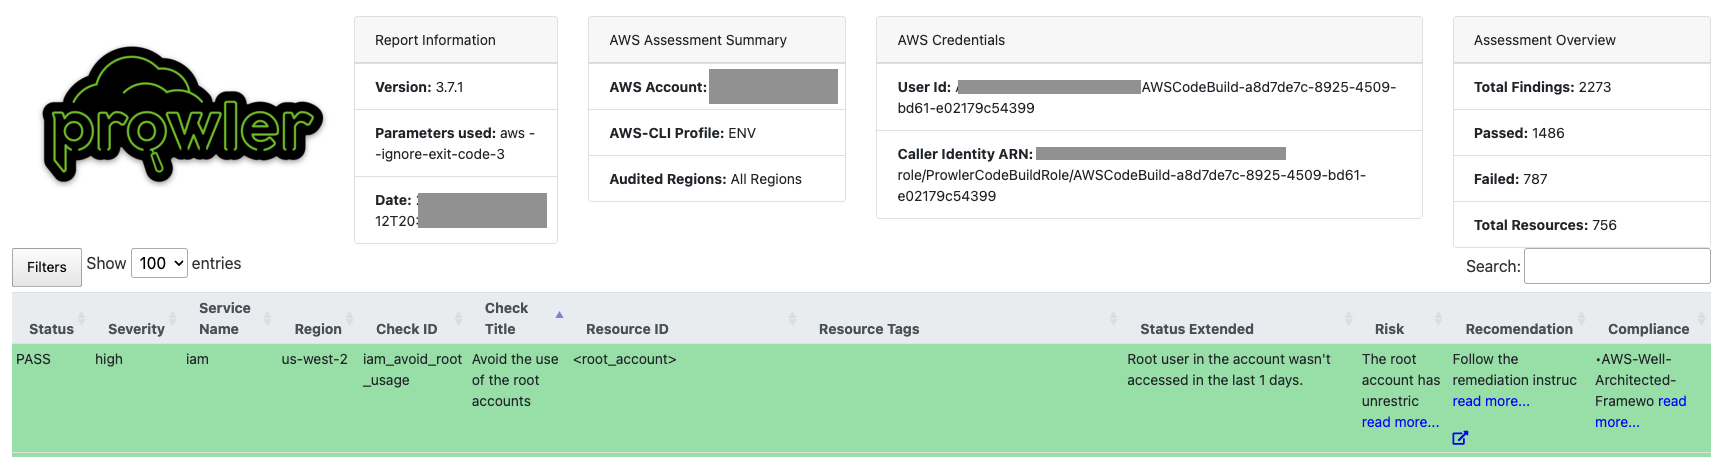
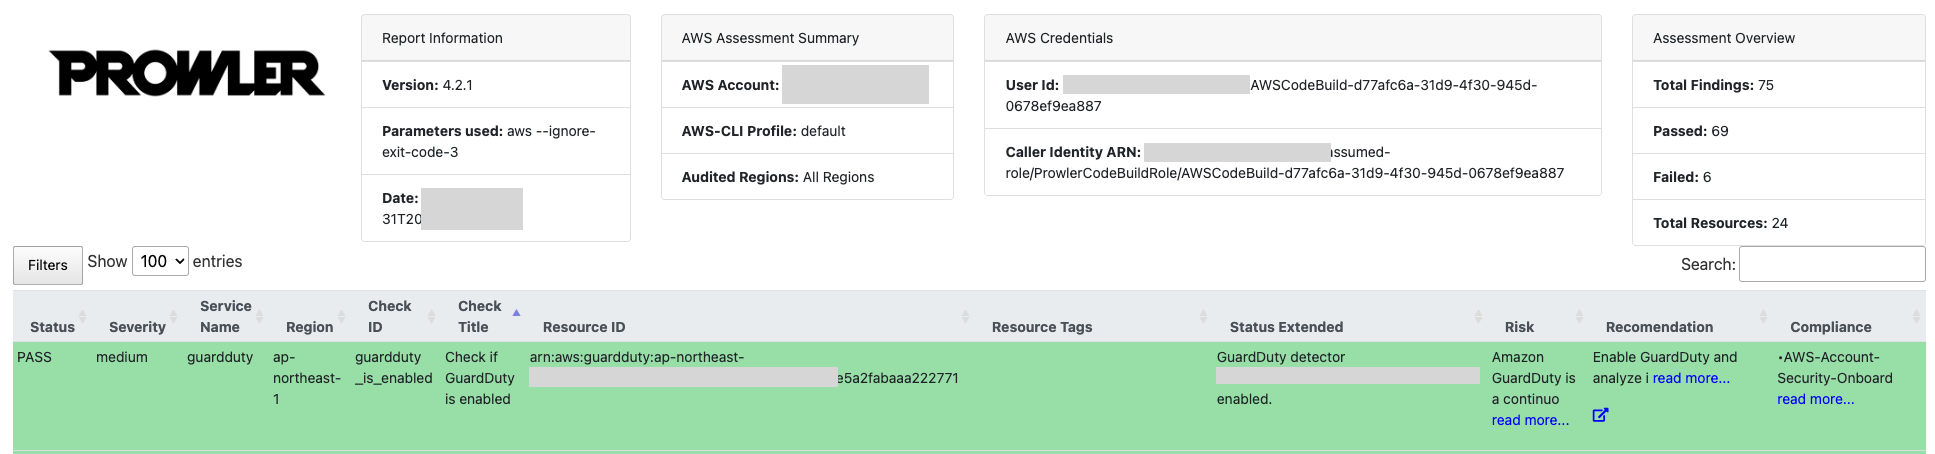
Updated Prowler to v4, updated Glue table schema, added permissions for LakeFormation, added delegation instructions to readme

diff --git a/README.md b/README.md
@@ -1,10 +1,38 @@
-## Self-Service Security Assessment Solutions (v2.0)
+## Self-Service Security Assessment Solutions (v2.0)<!-- omit from toc -->
 
 Cybersecurity remains a very important topic and point of concern for many CIOs, CISOs, and their customers. To meet these important concerns, AWS has developed a primary set of services customers should use to aid in protecting their accounts. [Amazon GuardDuty](https://aws.amazon.com/guardduty/), [AWS Security Hub](https://aws.amazon.com/security-hub/), [AWS Config](https://aws.amazon.com/config/), and [AWS Well-Architected](https://aws.amazon.com/architecture/well-architected/?wa-lens-whitepapers.sort-by=item.additionalFields.sortDate&wa-lens-whitepapers.sort-order=desc&wa-guidance-whitepapers.sort-by=item.additionalFields.sortDate&wa-guidance-whitepapers.sort-order=desc) reviews help customers maintain a strong security posture over their AWS accounts. As more organizations deploy to the cloud, especially if they are doing so quickly, and they have not yet implemented the recommended AWS Services, there may be a need to conduct a rapid security assessment of the cloud environment.
 
 We have developed an inexpensive, easy to deploy, secure, and fast solution to provide our customers with a security assessment report. These reports are generated using the open source project [Prowler](https://github.com/toniblyx/prowler). Prowler performs point in time security assessment based on AWS best practices and can help quickly identify any potential risk areas in a customer’s deployed environment. If you are interested in conducting these assessments on a continuous basis, AWS recommends enabling Security Hub’s [Foundational Security Best Practices standard](https://docs.aws.amazon.com/securityhub/latest/userguide/securityhub-standards-fsbp.html). If you are interested in integrating your Prowler assessment results with Security Hub, you can follow the instructions in the [Prowler Documentation](https://docs.prowler.cloud/en/latest/tutorials/aws/securityhub/).
 
 >Note: Prowler is not an AWS owned solution. Customers should independently review Prowler before running this solution. Any dependencies associated with Prowler should be kept up to date. This solution installs the latest version available from pip package installer.
+
+## Table of Contents<!-- omit from toc -->
+- [Overview](#overview)
+- [Deployment](#deployment)
+- [Single account scan](#single-account-scan)
+  - [AWS CloudShell](#aws-cloudshell)
+    - [Deploy the solution](#deploy-the-solution)
+  - [AWS Console](#aws-console)
+    - [Deploy the solution](#deploy-the-solution-1)
+- [Multi-account scan](#multi-account-scan)
+  - [AWS CloudShell](#aws-cloudshell-1)
+    - [Step 1: Deploy prerequisite role](#step-1-deploy-prerequisite-role)
+    - [Step 2: Deploy the SATv2 solution](#step-2-deploy-the-satv2-solution)
+  - [AWS Console](#aws-console-1)
+    - [Step 1: Deploy prerequisite role](#step-1-deploy-prerequisite-role-1)
+    - [Step 2: Enable delegated administrator for AWS Organizations](#step-2-enable-delegated-administrator-for-aws-organizations)
+    - [Step 3: Deploy the SATv2 solution](#step-3-deploy-the-satv2-solution)
+- [Review the results](#review-the-results)
+- [Scan types](#scan-types)
+  - [Basic Scan](#basic-scan)
+  - [Intermediate scan](#intermediate-scan)
+  - [Full scan](#full-scan)
+- [Notifications](#notifications)
+- [Reporting Summary](#reporting-summary)
+- [Frequently Asked Questions (FAQ)](#frequently-asked-questions-faq)
+- [Clean Up](#clean-up)
+- [Security](#security)
+- [License](#license)
 
 ## Overview
 The solution is deployed with [AWS CloudFormation](https://aws.amazon.com/cloudformation/). When deployed, an [AWS CodeBuild](https://aws.amazon.com/codebuild/) project and an [Amazon S3](https://aws.amazon.com/s3/) bucket to store the Prowler generated reports are created. An [AWS Lambda](https://aws.amazon.com/lambda/) function is then used to start the AWS CodeBuild project. 
@@ -27,7 +55,7 @@ You can use this project to run Prowler across multiple accounts in an AWS Organ
 ## Single account scan
 To run the Self-Service Security Assessment solution (SATv2) against a single account, follow the instructions below. You can choose to use the AWS CLI or the AWS Console.
 
-#### AWS CloudShell
+### AWS CloudShell
 
 <details>
     <summary>Show steps</summary>
@@ -52,7 +80,7 @@ To run the Self-Service Security Assessment solution (SATv2) against a single ac
 </details>
 
     
-#### AWS Console
+### AWS Console
 
 <details>
     <summary>Show steps</summary>
@@ -81,7 +109,7 @@ These instructions assume you already have the prerequisites for stack set opera
 
 >Note: StackSets don't apply to the management account. To assess the management account, deploy the 1-sat2-member-role as a CloudFormation Stack.
 
-#### AWS CloudShell
+### AWS CloudShell
 
 <details>
     <summary>Show steps</summary>
@@ -194,7 +222,7 @@ These instructions assume you already have the prerequisites for stack set opera
 
 </details>
 
-#### AWS Console
+### AWS Console
 
 <details>
     <summary>Show steps</summary>
@@ -240,7 +268,31 @@ These instructions assume you already have the prerequisites for stack set opera
     
 16. On the **Review** page, select the box **I acknowledge that AWS CloudFormation might create IAM resources.** and choose **Submit**.
 
-#### Step 2: Deploy the SATv2 solution
+#### Step 2: Enable delegated administrator for AWS Organizations
+Determine if you have delegated administrator or a resource policy that already exists for the account you wish to deploy Prowler in. It is recommended that you run Prowler from your security tooling (Audit) account. To update or verify that the audit account has permissions to ListAccounts, follow these steps.
+
+1. Navigate to the [AWS Organization console](https://console.aws.amazon.com/organizations).
+2. In the navigation pane, choose **Settings**.
+3. For Delegated administrator for AWS Organizations, include the following statement.
+
+    ```json
+    {
+        "Version": "2012-10-17",
+        "Statement": [
+        {
+            "Sid": "Statement",
+            "Effect": "Allow",
+            "Principal": {
+            "AWS": "arn:aws:iam::<aws-account-id>:root"
+            },
+            "Action": "organizations:ListAccounts",
+            "Resource": "*"
+        }
+        ]
+    }
+    ```
+
+#### Step 3: Deploy the SATv2 solution
 
 1. Navigate to the [AWS CloudFormation console](https://console.aws.amazon.com/cloudformation) in the account you will run the tool from (ProwlerAccountID).
    
@@ -354,7 +406,7 @@ aws cloudformation deploy --template-file 2-sat2-codebuild-prowler.yaml \
 ```
 
 With or without the optional EmailAddress parameter set, you can view the progress in the CodeBuild console.
-1. Navigate to the [CodeSuite console](https://console.aws.amazon.com/codesuite/).
+1. Navigate to the [CodeBuild console](https://console.aws.amazon.com/codesuite/).
 
 2. In the navigation pane, under **Build**, choose **Build projects**.
 
